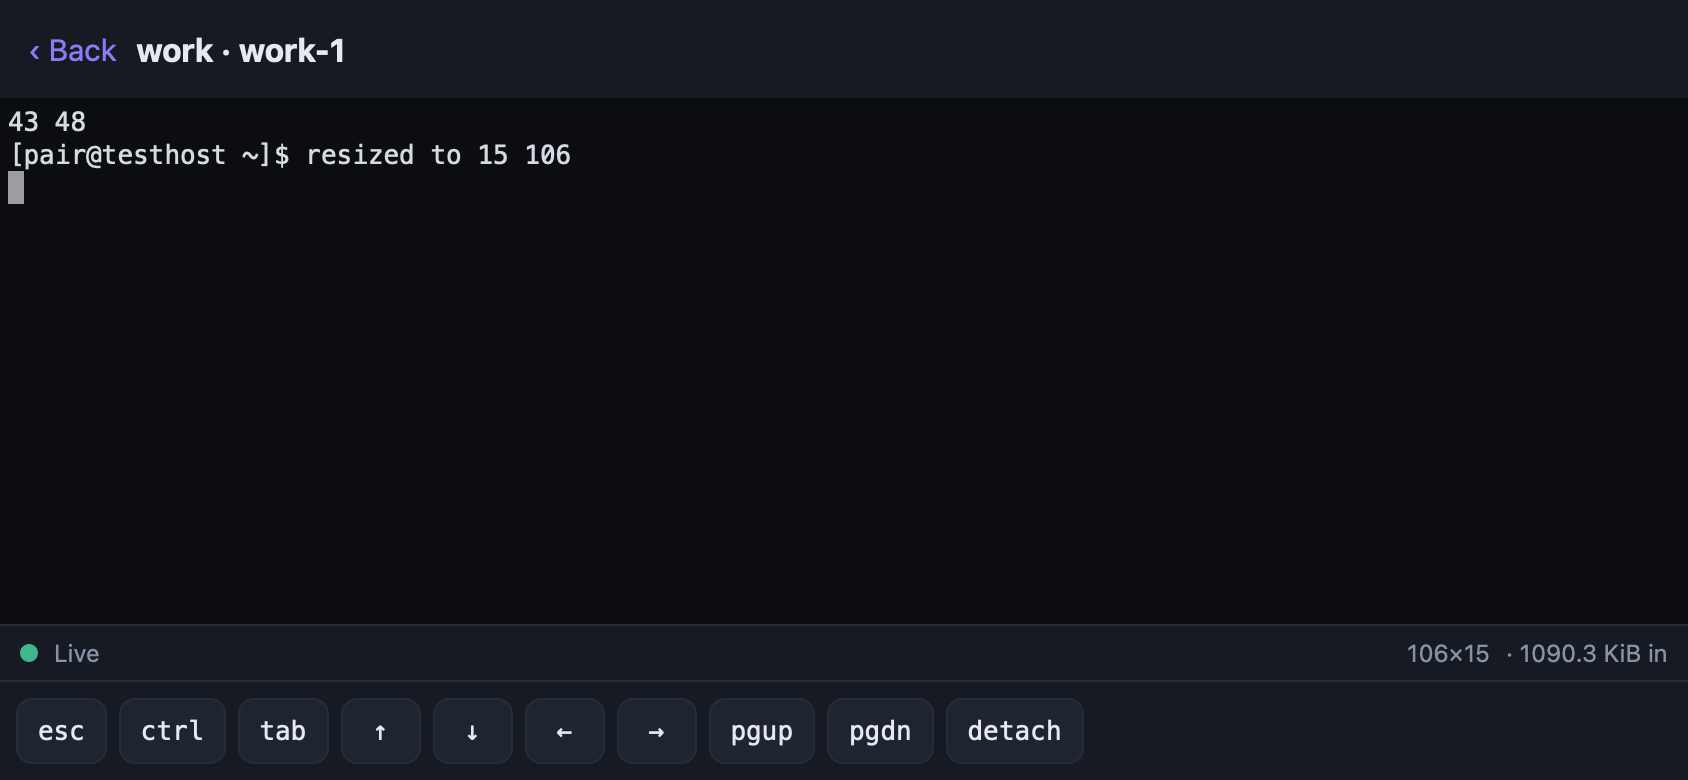
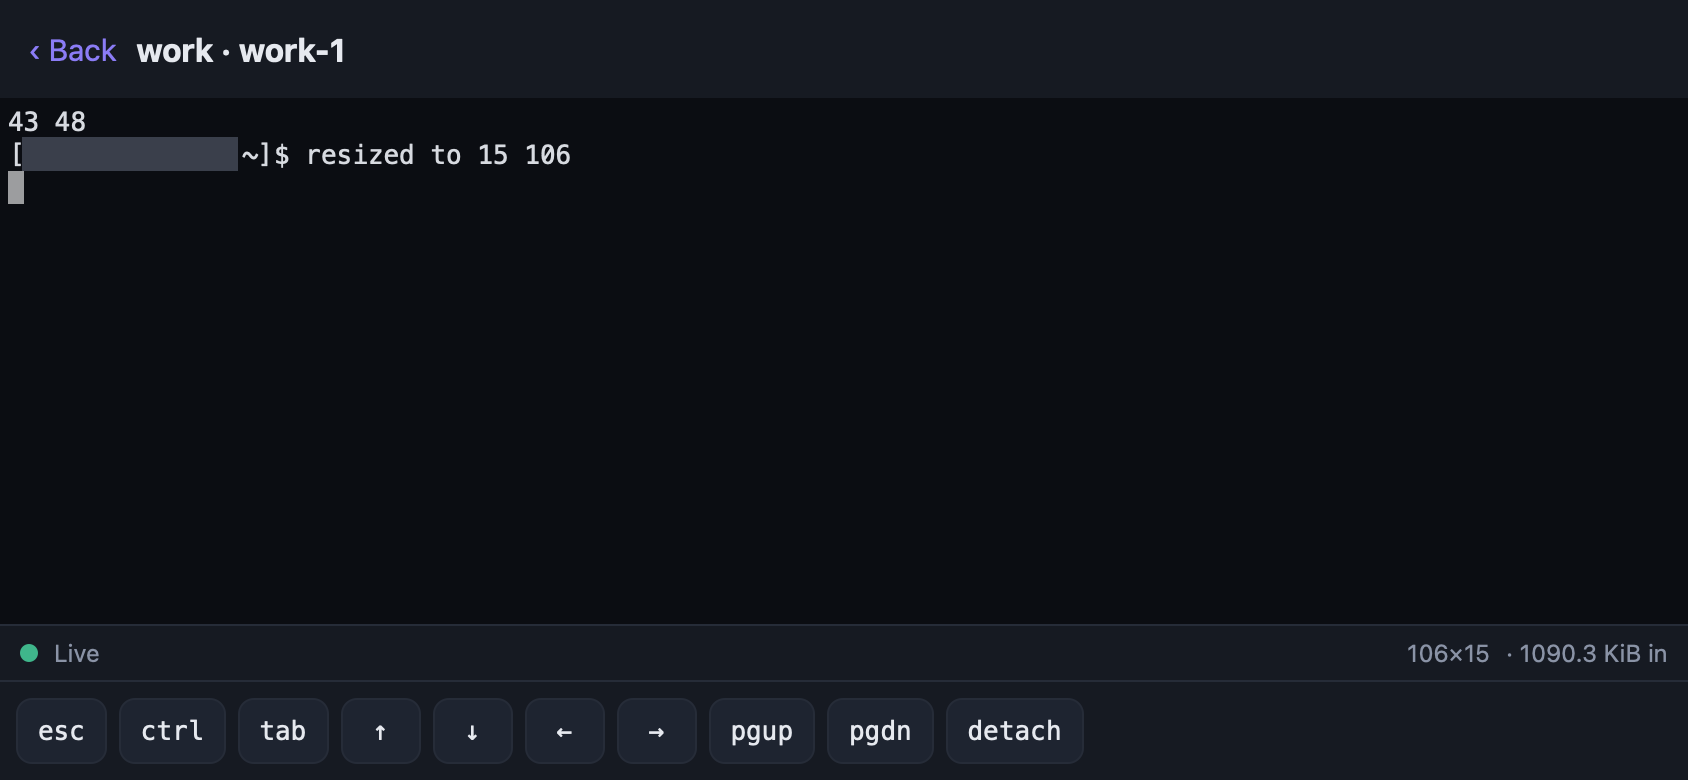
Mask user, host and owner names in two companion captures

Changed region(s): [[0.0, 0.1538, 0.154, 0.2462]]

diff --git a/docs/design/companion-terminal-spike.md b/docs/design/companion-terminal-spike.md
@@ -81,6 +81,8 @@ payload before SSH encryption and framing.
 
 ### Captures
 
+In the colour and landscape captures, grey boxes cover the shell prompt's user and host names and the file-owner columns. Nothing else in the captures is changed.
+
 | | | |
 | --- | --- | --- |
 | ![Paired hosts, with a drive key and a watch key](companion-terminal/hosts.png) | ![Needs-you section above the Space list](companion-terminal/catalog-inbox.png) | ![A shell with colour output](companion-terminal/terminal.png) |
